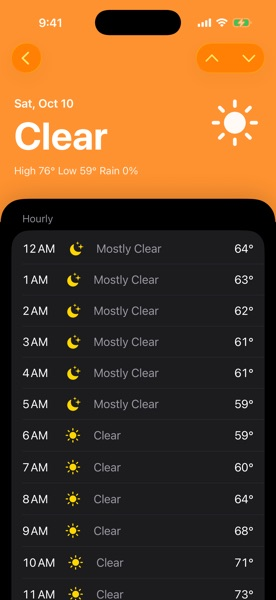
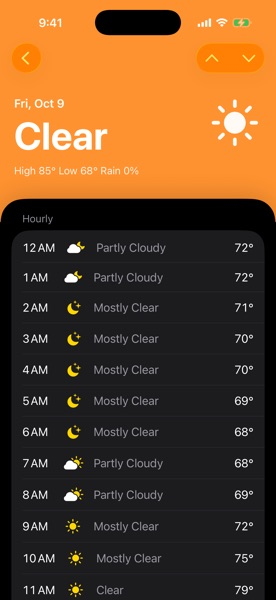
Set the English screenshots in Los Angeles

diff --git a/docs/README.md b/docs/README.md
@@ -8,4 +8,4 @@
 | [`design/app-icon/`](design/app-icon/) | Layered SVG trace of the lion icon for Icon Composer, plus light/dark/tinted previews |
 | [`design/app-icon-1024.png`](design/app-icon-1024.png) | 1024×1024 master of the app icon. The per-size icons exported from it live in `NextSunnyDay/Assets.xcassets/AppIcon.appiconset/`. |
 | [`release/app-store-metadata.md`](release/app-store-metadata.md) | App Store listing drafts in English and Japanese (name, subtitle, promotional text, keywords, description) |
-| [`images/`](images/) | Screenshots of the app and the widget used by the READMEs, in English (`en/`, for `README.md`) and Japanese (`ja/`, for `README.ja.md`); iPhone 17 simulator, sample data from the preview scenarios and live weather |
+| [`images/`](images/) | Screenshots of the app and the widget used by the READMEs, in English (`en/`, for `README.md`, set in Los Angeles) and Japanese (`ja/`, for `README.ja.md`, set in Tokyo); iPhone 17 simulator, sample data from the preview scenarios and live weather |
